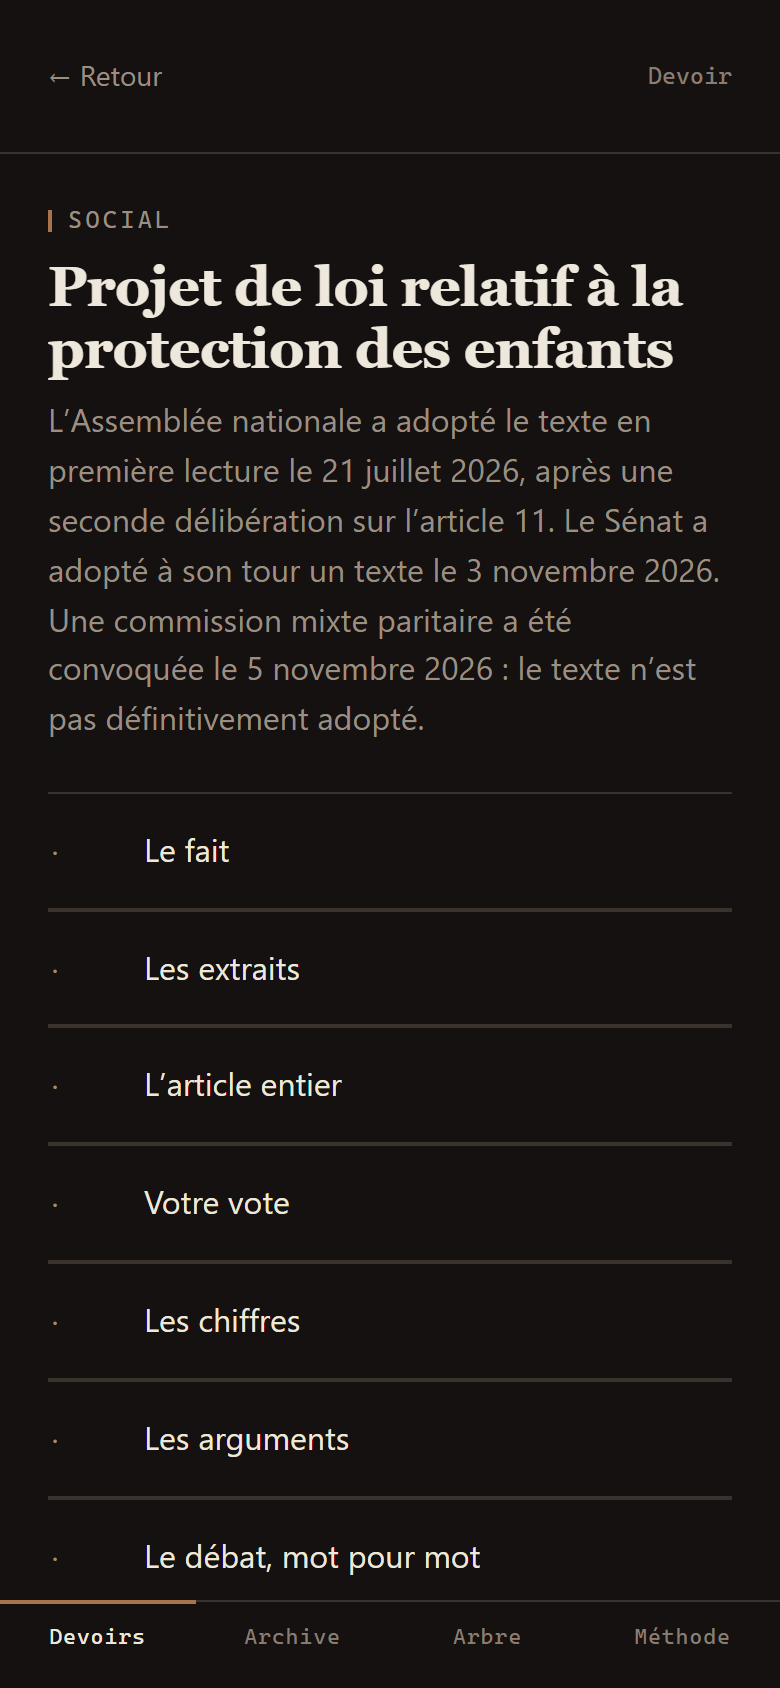
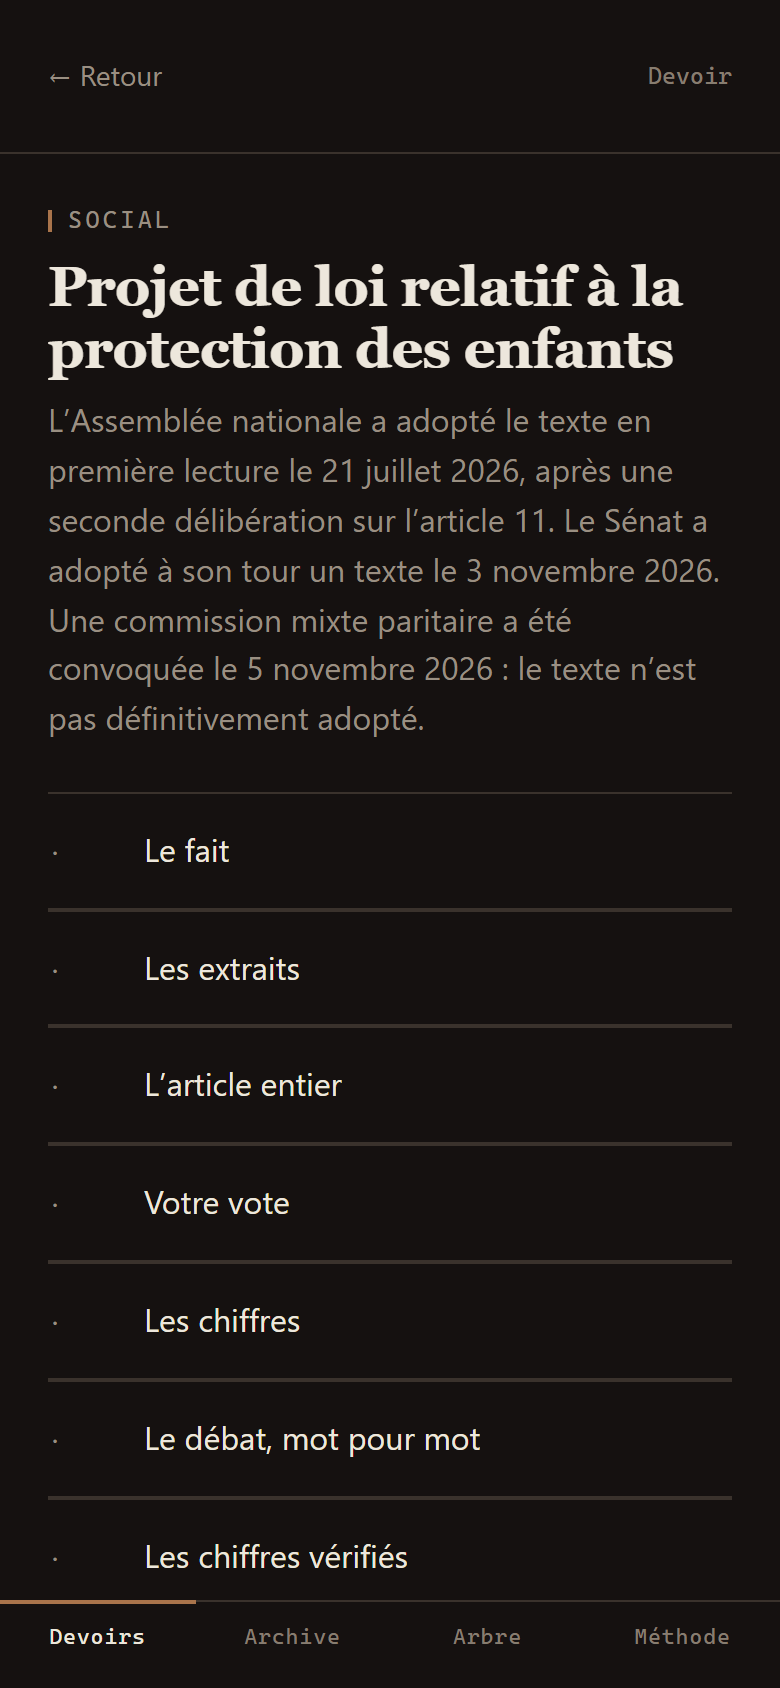
Quorum: donnees arguments et experts retirees, gate 5
Le fichier de loi ne porte plus que ce_qui_est_vote pour le rappel du vote. Le schema exige ce bloc et n'exige plus arguments ni experts. Les controles de symetrie et de sources ne portent plus que sur la presse et le debat. Cache v22, captures des anciens ecrans retirees.

diff --git a/styles/app.css b/styles/app.css
@@ -670,45 +670,8 @@ body {
   cursor: default;
 }
 
-/* ---------- Arguments : la carte « comprendre en une minute » ---------- */
+/* ---------- Débat cité ---------- */
 
-.contenu {
-  display: flex;
-  flex-direction: column;
-  gap: var(--s2);
-  padding: var(--s3);
-  border: 1px solid var(--filet-fort);
-  border-left: 3px solid var(--bois);
-  border-radius: var(--rayon);
-  background: var(--fond-2);
-}
-
-.contenu__titre {
-  font-family: var(--serif);
-  font-size: var(--t-lg);
-  font-weight: 600;
-}
-
-.contenu__texte,
-.contenu__points {
-  color: var(--texte-doux);
-  font-size: var(--t-md);
-  line-height: 1.55;
-}
-
-.contenu__points {
-  margin: 0;
-  padding-left: 1.15rem;
-  display: flex;
-  flex-direction: column;
-  gap: var(--s1);
-}
-
-.contenu__points li::marker {
-  color: var(--bois);
-}
-
-.contenu strong,
 .debat strong {
   color: var(--texte);
   font-weight: 600;
@@ -778,11 +741,6 @@ body {
 .debat--contre {
   background: var(--contre-fond);
   border-left-color: var(--contre);
-}
-
-.debat__texte {
-  font-size: var(--t-md);
-  line-height: 1.6;
 }
 
 /* ---------- Débat cité et chiffres vérifiés ---------- */

diff --git a/index.html b/index.html
@@ -9,16 +9,16 @@
       name="description"
       content="Ce qui s'est dit. Ce qui s'est voté. Chaque phrase a sa source, chaque chiffre vient du scrutin."
     />
-    <link rel="stylesheet" href="styles/tokens.css?v=21" />
-    <link rel="stylesheet" href="styles/app.css?v=21" />
+    <link rel="stylesheet" href="styles/tokens.css?v=22" />
+    <link rel="stylesheet" href="styles/app.css?v=22" />
     <link rel="manifest" href="manifest.json" />
     <link rel="icon" href="assets/icone.svg" type="image/svg+xml" />
     <link rel="apple-touch-icon" href="assets/icone.svg" />
   </head>
   <body>
     <div class="app" id="app"></div>
-    <script src="js/hemicycle.js?v=21"></script>
-    <script src="js/app.js?v=21"></script>
+    <script src="js/hemicycle.js?v=22"></script>
+    <script src="js/app.js?v=22"></script>
     <script>
       if ("serviceWorker" in navigator && location.protocol !== "file:") {
         window.addEventListener("load", function () {

diff --git a/service-worker.js b/service-worker.js
@@ -2,7 +2,7 @@
    L'application doit fonctionner sans lui : il ne fait qu'accélérer et
    permettre le mode avion. Toute erreur ici est rattrapable en le désactivant. */
 
-var CACHE = "quorum-v21";
+var CACHE = "quorum-v22";
 
 var FICHIERS = [
   "./",

diff --git a/README.md b/README.md
@@ -57,7 +57,7 @@ node scripts/preuve-gate.mjs         # prouve que le passage accepte et refuse
 
 Le script refuse, il ne corrige pas. Code de sortie 1 dès qu'un fichier est refusé.
 Il vérifie le schéma, les dates, les décomptes (577 sièges, sièges attribués, votants,
-exprimés), le verbatim des extraits, la symétrie des quatre bords, les citations du débat,
+exprimés), le verbatim des extraits, la symétrie de la presse et du débat, les citations du débat,
 les chiffres vérifiés, les sources, et l'absence de contenu de démonstration. Un fichier
 dont le nom commence par `_` est ignoré : c'est un jeu de travail, pas une publication.
 
@@ -88,7 +88,7 @@ Trois listes ferment la publication : `data/ref/medias.json`, `data/ref/experts.
 `data/ref/verbatim.json` doivent contenir le média, la personne ou l'organisation citée,
 avec son domaine, son affiliation, son rôle ou son passage. Une entrée absente est refusée,
 avec ou sans drapeau. Le champ `meta.gate` doit valoir la version courante du passage de
-contrôles (`4` aujourd'hui) : un fichier produit par une règle plus ancienne est refusé.
+contrôles (`5` aujourd'hui) : un fichier produit par une règle plus ancienne est refusé.
 `source.texte_url` est obligatoire : c'est le lien vers le texte officiel, affiché
 en bas de l'écran « article entier » pour un fichier publié.
 
@@ -131,18 +131,18 @@ code, sinon le navigateur peut servir une ancienne version. Les JSON sont lus av
 
 `#/` accueil · `#/devoir/<id>` sommaire · `/fait` chronologie · `/texte` extraits ·
 `/article` texte entier · `/vote` premier vote · `/chiffres` décompte et quiz ·
-`/arguments` carte « Comprendre en une minute » · `/debat` le débat mot pour mot ·
-`/verif` les chiffres vérifiés · `/presse` · `/experts` · `/resultat` vote final ·
-`/carte` hémicycle · `#/arbre` progression · `#/methode` contrôles · `#/archive` ·
-`#/recherche`
+`/debat` le débat mot pour mot · `/verif` les chiffres vérifiés · `/presse` ·
+`/resultat` vote final · `/carte` hémicycle · `#/arbre` progression ·
+`#/methode` contrôles · `#/archive` · `#/recherche`
 
 L'ordre est linéaire : le fait, les extraits et l'article entier viennent **avant** le
-premier vote. Le vote est demandé après avoir lu le texte, pas avant.
+premier vote. Le vote est demandé après avoir lu le texte, pas avant. Les anciennes
+adresses `/arguments` et `/experts` renvoient vers `/debat` et `/presse`.
 
 ## Ce qui est vrai, ce qui ne l'est pas
 
 - **Vrai** : la composition de l'Assemblée dans `data/ref/groupes.json`, avec sa source et sa date ; le scrutin n° 8429, le scrutin n° 8428 cité dans `variante`, la chronologie et les passages reproduits de `data/lois/protection-enfants.json`, tirés du MCP Hémicycle ; les titres de presse et les citations, avec leur lien.
-- **Reformulé, source à l'appui** : les arguments pour et contre de l'écran « Les arguments », présentés comme une carte « Comprendre en une minute ». Chacun reprend une position exprimée sur l'article 11, avec l'exposé sommaire dont il vient. Les phrases exactes des députés sont dans « Le débat, mot pour mot », recopiées des comptes rendus et contrôlées une à une.
+- **Reformulé, source à l'appui** : les rares textes de synthèse (résumé, fait, points de l'article). Les prises de position ne sont plus reformulées : l'écran « Le débat, mot pour mot » donne les phrases des députés telles quelles, recopiées des comptes rendus et contrôlées une à une. Aucune position n'est qualifiée de meilleure.
 - **Vérifié, avec sa limite** : les trois chiffres de l'écran « Les chiffres, vérifiés ». Le 3 % et le 1 % sont confirmés par la CIIVISE (rapport public de novembre 2023, bilan du 15 juin 2026) : ce sont des ordres de grandeur calculés à partir des plaintes, pas des comptages exhaustifs. Le 70 % reste « non documenté » : le rapport inter-inspections de juillet 2022 qui le porte n'est publié sur aucun site officiel, donc il n'est pas repris comme un fait.
 - **Faux, assumé** : le contenu de `data/lois/_demo.json`. Il n'est pas publié ; l'index ne le cite pas.
 - **Maquette, assumé** : l'arbre de `data/ref/arbre.json`. Les 4 jalons, 8 thèmes et 24 branches sont une nomenclature de démonstration ; seuls les points gagnés sont réels, ils ne comptent que des actions du parcours, jamais le contenu d'un vote.

diff --git a/docs/demo.md b/docs/demo.md
@@ -1,4 +1,4 @@
-# Démo Quorum — 12 étapes, 4 minutes
+# Démo Quorum — 11 étapes, 4 minutes
 
 Loi : **projet de loi relatif à la protection des enfants**, scrutin **n° 8429** du 21 juillet 2026.
 Serveur : `python -m http.server 8000` dans le dossier du projet, puis `http://127.0.0.1:8000/`.
@@ -12,12 +12,11 @@ Avant de commencer : navigation privée, ou `localStorage.removeItem("quorum.v1"
 | 4 | L'article entier | montrer **Ce qui a changé** | « Une seule mention est marquée “supprimé” : b). Le même jour, un sous-amendement a retiré la période de sûreté à trente ans : 178 pour, 163 contre. » | 20 s |
 | 5 | Votre vote | cliquer **Pour** | « Le vote arrive maintenant, une fois le texte lu. Il reste dans ce navigateur : pas de compte, pas de serveur, pas de trace. » | 15 s |
 | 6 | Les chiffres | répondre au quiz | « 258 pour, 84 contre : ça mesure le rétablissement de l'article 11. La clause de sûreté, elle, est tombée par 178 contre 163, le même jour. Quinze voix d'écart. » | 20 s |
-| 7 | Les arguments | lire une carte | « Deux bords, même nombre d'entrées, même poids. Ce sont des reformulations, et chacune garde l'exposé sommaire dont elle vient. » | 20 s |
-| 8 | Le débat, mot pour mot | montrer une citation, ouvrir un compte rendu | « Ici, aucune reformulation : chaque phrase est recopiée du compte rendu. Le contrôle refuse le fichier si un seul mot change. » | 35 s |
-| 9 | Les chiffres vérifiés | lire les trois cartes | « 3 % et 1 % : confirmés par la CIIVISE. 70 % : non documenté, parce que le rapport de 2022 n'est publié nulle part. Un chiffre sans source ne devient pas un fait. » | 30 s |
-| 10 | La presse | survoler les deux colonnes | « Des titres réels, datés, liés. Aucun commentaire, aucun classement politique. » | 15 s |
-| 11 | Votre vote final | cliquer **Contre**, lire le résultat | « Deuxième vote, après le débat. Changer d'avis ne rapporte rien : les points ne récompensent que le parcours. » | 15 s |
-| 12 | La carte | basculer **Avec vous** | « 577 sièges, 224 non occupés, jamais attribués à un groupe. Voilà où est votre voix. » | 20 s |
+| 7 | Le débat, mot pour mot | montrer une citation, ouvrir un compte rendu | « Ici, aucune reformulation : trois voix de chaque côté, chacune recopiée du compte rendu. Le contrôle refuse le fichier si un seul mot change. » | 35 s |
+| 8 | Les chiffres vérifiés | lire les trois cartes | « 3 % et 1 % : confirmés par la CIIVISE. 70 % : non documenté, parce que le rapport de 2022 n'est publié nulle part. Un chiffre sans source ne devient pas un fait. » | 30 s |
+| 9 | La presse | survoler les deux colonnes | « Des titres réels, datés, liés. Aucun commentaire, aucun classement politique. » | 15 s |
+| 10 | Votre vote final | cliquer **Contre**, lire le résultat | « Deuxième vote, après le débat. Changer d'avis ne rapporte rien : les points ne récompensent que le parcours. » | 15 s |
+| 11 | La carte | basculer **Avec vous** | « 577 sièges, 224 non occupés, jamais attribués à un groupe. Voilà où est votre voix. » | 20 s |
 
 Clôture (15 s) : « Aucun appel IA dans l'app. Le contenu est publié par des contrôles automatiques : une phrase citée absente du compte rendu, un verdict sans source, un “non documenté” avec une source — chacun de ces cas refuse le fichier entier. »
 

diff --git a/docs/questions.md b/docs/questions.md
@@ -12,7 +12,7 @@ Non. C'est le décompte du scrutin n° 8428, recopié tel quel, avec son identif
 Chaque chiffre porte l'identifiant du scrutin et la source amont, l'Assemblée nationale sous Licence Ouverte. Les contrôles vérifient l'arithmétique interne : votants = pour + contre + abstentions, exprimés = pour + contre, sièges attribués + sièges vides = 577. Une incohérence bloque la publication.
 
 **4. « Vous dites “aucune IA dans l'app”, mais le contenu est produit par une IA. »**
-Le contenu est produit hors ligne, puis jugé par des contrôles automatiques qui acceptent ou refusent le fichier. À l'exécution, l'app ne fait aucun appel : elle lit des JSON statiques. Les nombres, les dates, les extraits du texte et les titres de presse sont recopiés tels quels ; les arguments pour et contre sont reformulés, et chaque reformulation garde l'exposé sommaire dont elle vient.
+Le contenu est produit hors ligne, puis jugé par des contrôles automatiques qui acceptent ou refusent le fichier. À l'exécution, l'app ne fait aucun appel : elle lit des JSON statiques. Les nombres, les dates, les extraits du texte, les citations du débat et les titres de presse sont recopiés tels quels ; le résumé et les points de l'article sont reformulés, et chaque phrase citée est vérifiée mot pour mot.
 
 **5. « Le vote est privé, mais il est écrit sur le téléphone. »**
 Il est dans `localStorage`, jamais transmis, et effaçable en un geste. Quelqu'un qui tient l'appareil déverrouillé peut le lire : c'est la limite, elle est assumée. Il n'y a ni compte, ni serveur, ni identifiant.
@@ -21,7 +21,7 @@ Il est dans `localStorage`, jamais transmis, et effaçable en un geste. Quelqu'u
 Parce qu'une loi vérifiée vaut mieux que dix approximatives, et parce que chaque loi coûte des crédits de données. La règle de coupe du projet dit quoi sacrifier en premier : les ressources, puis la presse, jamais le fait ni les chiffres.
 
 **7. « La perpétuité pour les viols sur mineurs, vous en pensez quoi ? »**
-Quorum ne prend pas position et je ne parle pas à sa place. L'app publie le texte voté, les deux décomptes et les arguments des deux bords, avec leurs sources.
+Quorum ne prend pas position et je ne parle pas à sa place. L'app publie le texte voté, les deux décomptes et les citations des deux bords, avec leurs sources.
 
 **8. « Le Sénat a voté, pourquoi n'est-il pas dans l'app ? »**
 Parce que la composition du Sénat n'est pas encore dans le référentiel : le contrôle refuse explicitement un scrutin sénatorial plutôt que d'inventer une répartition. C'est une lacune déclarée, pas un oubli.

diff --git a/docs/slides.md b/docs/slides.md
@@ -22,7 +22,7 @@ Ce qui s'est dit. Ce qui s'est voté.
 
 ## 3. Un devoir, de bout en bout
 
-Le fait → les extraits → l'article entier → premier vote → les chiffres → les arguments → le débat mot pour mot → les chiffres vérifiés → la presse → les ressources → vote final → la carte.
+Le fait → les extraits → l'article entier → premier vote → les chiffres → le débat mot pour mot → les chiffres vérifiés → la presse → vote final → la carte.
 
 - Le premier vote arrive après le texte, pas avant : on sait ce qu'on vote.
 - Le second arrive après le débat et la vérification des chiffres.
@@ -46,7 +46,7 @@ Le fait → les extraits → l'article entier → premier vote → les chiffres 
 
 ## 6. La neutralité par construction
 
-- Quatre listes à deux bords, de poids comparable : arguments, presse, ressources, débat.
+- Deux listes à deux bords, de poids comparable : la presse et le débat.
 - Trois listes fermées : médias suivis par flux RSS, personnes citables, verbatim des comptes rendus.
 - Les citations du débat sont recopiées : une seule au mot près et le fichier est refusé.
 - Les verdicts sur les chiffres sont typographiques, jamais verts ou rouges.
